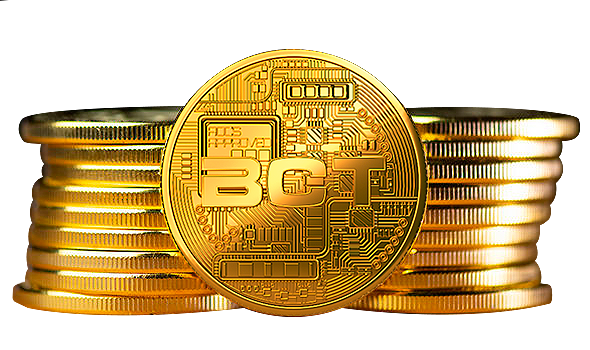
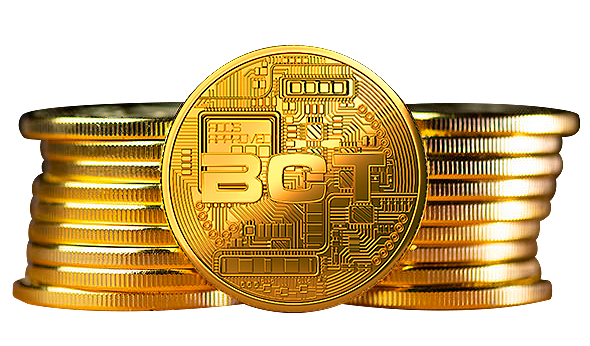
update '2_order' page image

diff --git a/2_order.html b/2_order.html
@@ -54,7 +54,7 @@
 				
 			<div class="row align-items-center justify-content-center">
 				<div class="col-md-8 col-lg py-3">
-					<img src="img/bct-monitor.png" alt="">
+					<img src="img/coins.png" alt="">
 				</div>
 				<div class="col-lg-6 col-xl-5 order-lg-first py-3">
 					<form action="#!">
